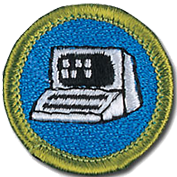
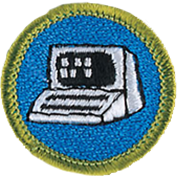
Add merit badges to page

diff --git a/index.html b/index.html
@@ -197,13 +197,13 @@
                     <div class="col-md-2 col-md-offset-1"><h3><span>What I Do</span></h3>
                     </div>
                     <div class="col-md-3">
-                        <img class="img-fluid" src="http://unsplash.it/200/200?random">
+                        <img class="img-fluid" src="images/fullstack.png">
                     </div>
                     <div class="col-md-3">
-                        <img class="img-fluid" src="http://unsplash.it/200/200?random">
+                        <img class="img-fluid" src="images/graphicarts.png">
                     </div>
                     <div class="col-md-3">
-                        <img class="img-fluid" src="http://unsplash.it/200/200?random">
+                        <img class="img-fluid" src="images/computer.png">
                     </div>
 
                     <div class="col-md-3 col-md-offset-3 lead">Full Stack Web Developer
@@ -225,13 +225,13 @@
                     <div class="col-md-2 col-md-offset-1"><h3><span>How I Do It</span></h3>
                     </div>
                     <div class="col-md-3">
-                        <img class="img-fluid" src="http://unsplash.it/200/200?random">
+                        <img class="img-fluid" src="images/programming.png">
                     </div>
                     <div class="col-md-3">
-                        <img class="img-fluid" src="http://unsplash.it/200/200?random">
+                        <img class="img-fluid" src="images/atomic.png">
                     </div>
                     <div class="col-md-3">
-                        <img class="img-fluid" src="http://unsplash.it/200/200?random">
+                        <img class="img-fluid" src="images/attributes.png">
                     </div>
 
                     <div class="col-md-3 col-md-offset-3 lead">Languages
